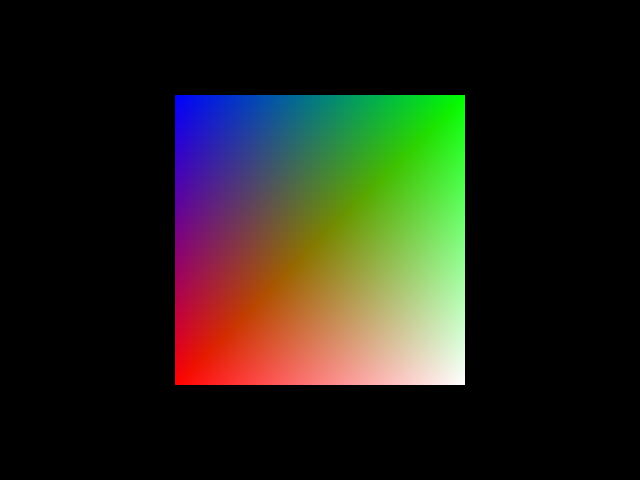
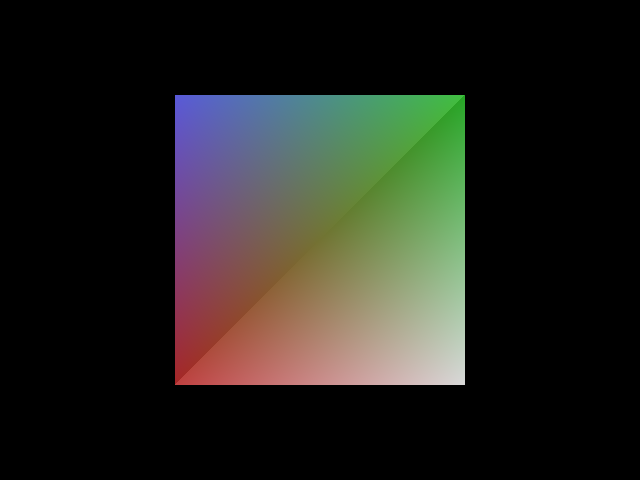
Fixed 320-texture-3d sample, updated 430-interface-maching sample, updated image templates, clean up

Changed region(s): [[0.25, 0.1875, 0.75, 0.8125]]

diff --git a/tests/gl-320-texture-3d.cpp b/tests/gl-320-texture-3d.cpp
@@ -125,13 +125,12 @@ private:
 		glTexParameteri(GL_TEXTURE_3D, GL_TEXTURE_WRAP_T, GL_CLAMP_TO_EDGE);
 		glTexParameteri(GL_TEXTURE_3D, GL_TEXTURE_WRAP_R, GL_CLAMP_TO_EDGE);
 
-		glTexImage3D(
-			GL_TEXTURE_3D, 
+		glTexImage3D(GL_TEXTURE_3D,
 			0, 
 			GL_R32F, 
-			GLsizei(Size), 
-			GLsizei(Size), 
-			GLsizei(Size), 
+			GLsizei(Size),
+			GLsizei(Size),
+			GLsizei(Size),
 			0,
 			GL_RED, GL_FLOAT,
 			&Data[0]);
@@ -139,12 +138,6 @@ private:
 		glGenerateMipmap(GL_TEXTURE_3D);
 	
 		glPixelStorei(GL_UNPACK_ALIGNMENT, 4);
-
-
-		GLuint FramebufferName = 0;
-		glGenFramebuffers(1, &FramebufferName);
-		glBindFramebuffer(GL_FRAMEBUFFER, FramebufferName);
-		glFramebufferTexture(GL_FRAMEBUFFER, GL_COLOR_ATTACHMENT0, TextureName, 0);
 
 		return this->checkError("initTexture");
 	}

diff --git a/tests/gl-400-blend-rtt.cpp b/tests/gl-400-blend-rtt.cpp
@@ -276,6 +276,8 @@ private:
 
 			glEnableVertexAttribArray(semantic::attr::POSITION);
 			glEnableVertexAttribArray(semantic::attr::TEXCOORD);
+
+			glBindBuffer(GL_ELEMENT_ARRAY_BUFFER, BufferName[BUFFER_ELEMENT]);
 		glBindVertexArray(0);
 
 		return this->checkError("initVertexArray");
@@ -396,7 +398,6 @@ private:
 			glBindTexture(GL_TEXTURE_2D, TextureName[i]);
 
 			glBindVertexArray(VertexArrayName);
-			glBindBuffer(GL_ELEMENT_ARRAY_BUFFER, BufferName[BUFFER_ELEMENT]);
 			glDrawElementsInstancedBaseVertex(GL_TRIANGLES, ElementCount, GL_UNSIGNED_SHORT, NULL, 1, 0);
 		}
 

diff --git a/tests/gl-420-fbo-layered-amd.cpp b/tests/gl-420-fbo-layered-amd.cpp
@@ -221,6 +221,8 @@ private:
 	bool begin()
 	{
 		bool Validated = true;
+		Validated = Validated && this->checkExtension("GL_AMD_vertex_shader_viewport_index");
+		Validated = Validated && this->checkExtension("GL_AMD_vertex_shader_layer");
 
 		if(Validated)
 			Validated = initProgram();
